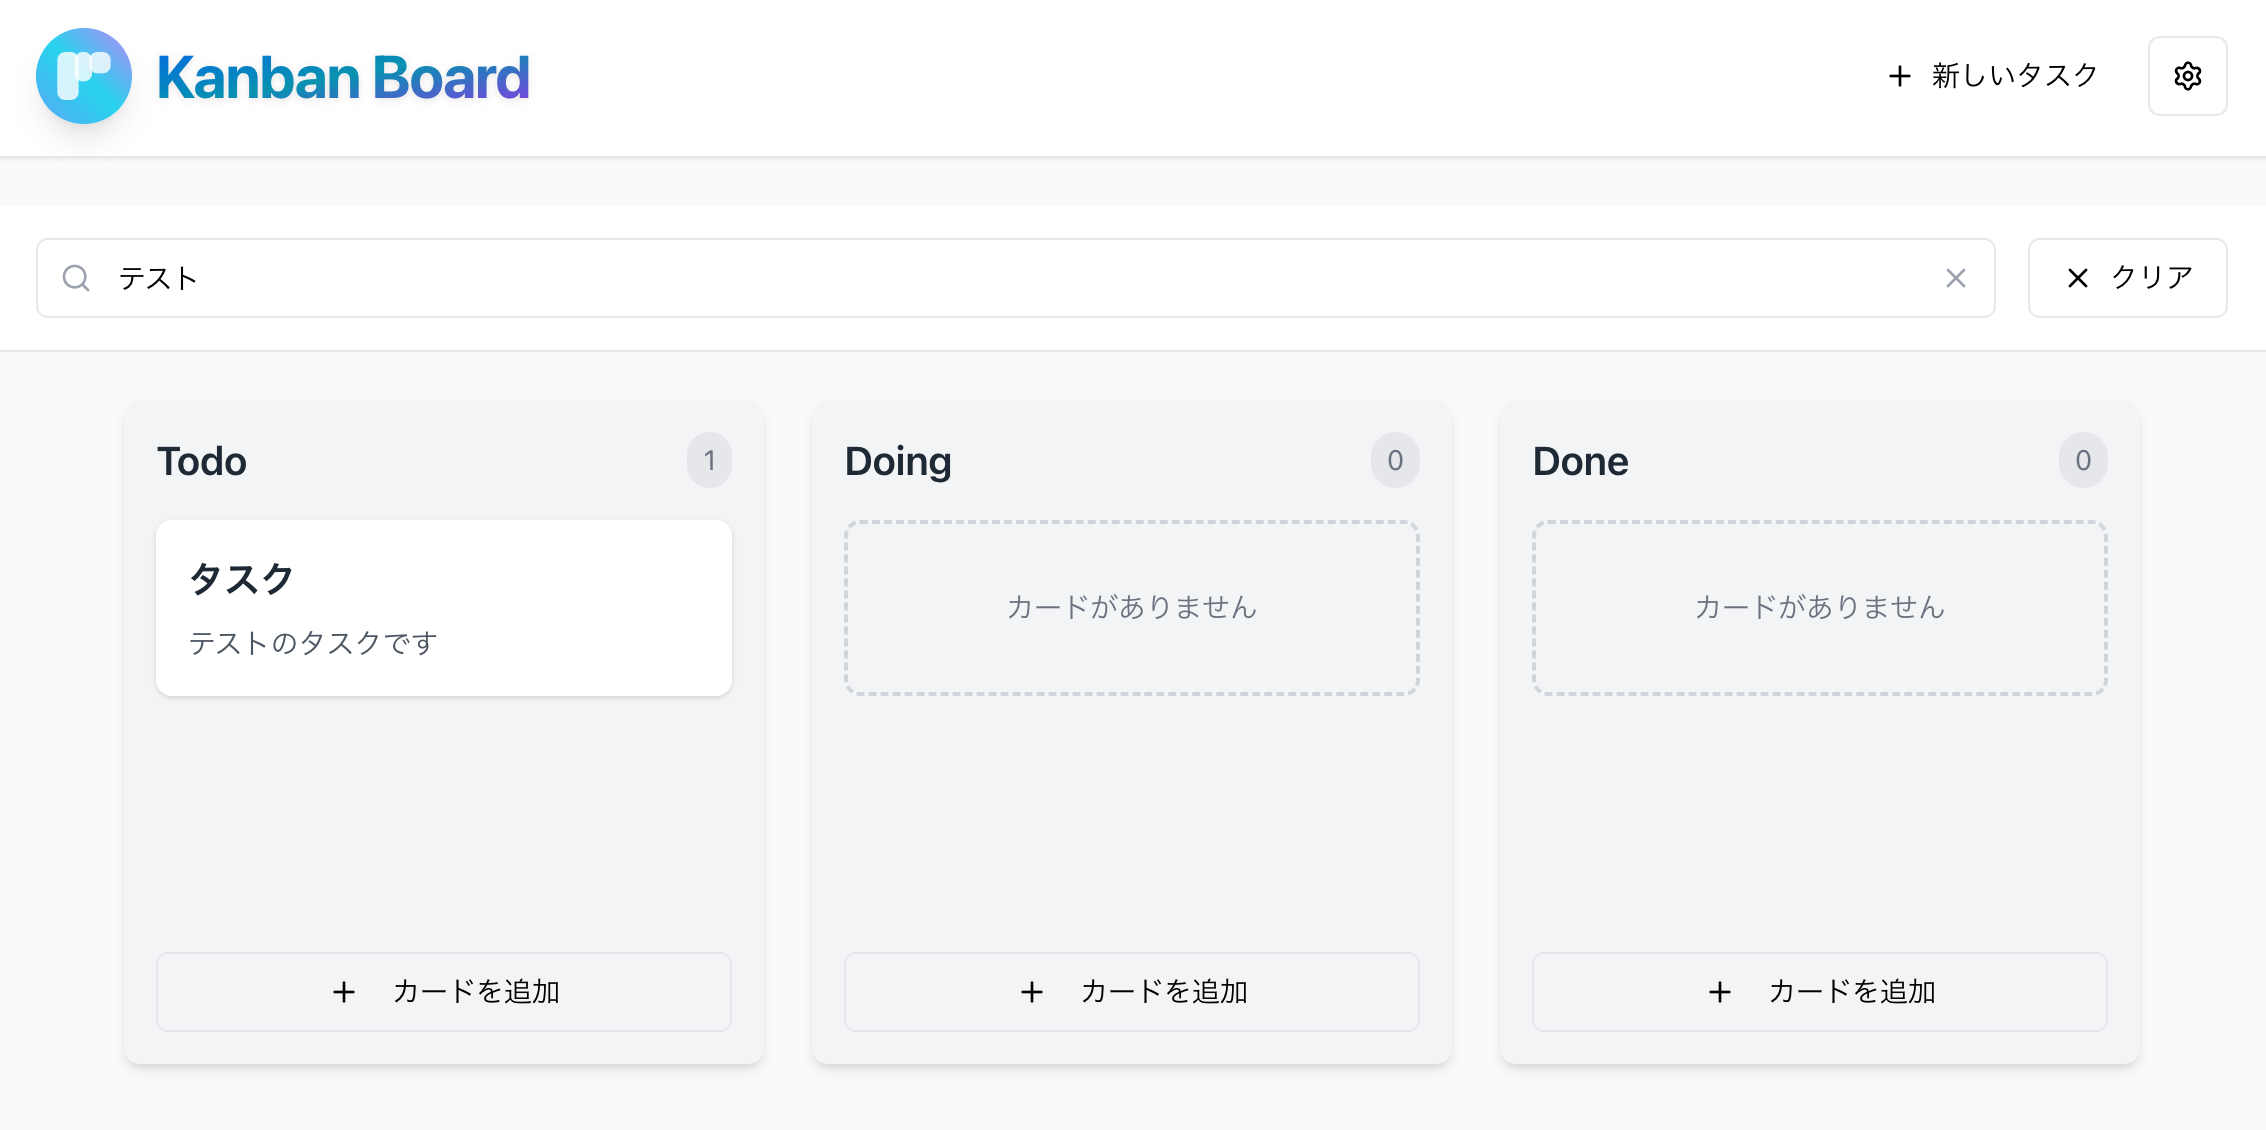
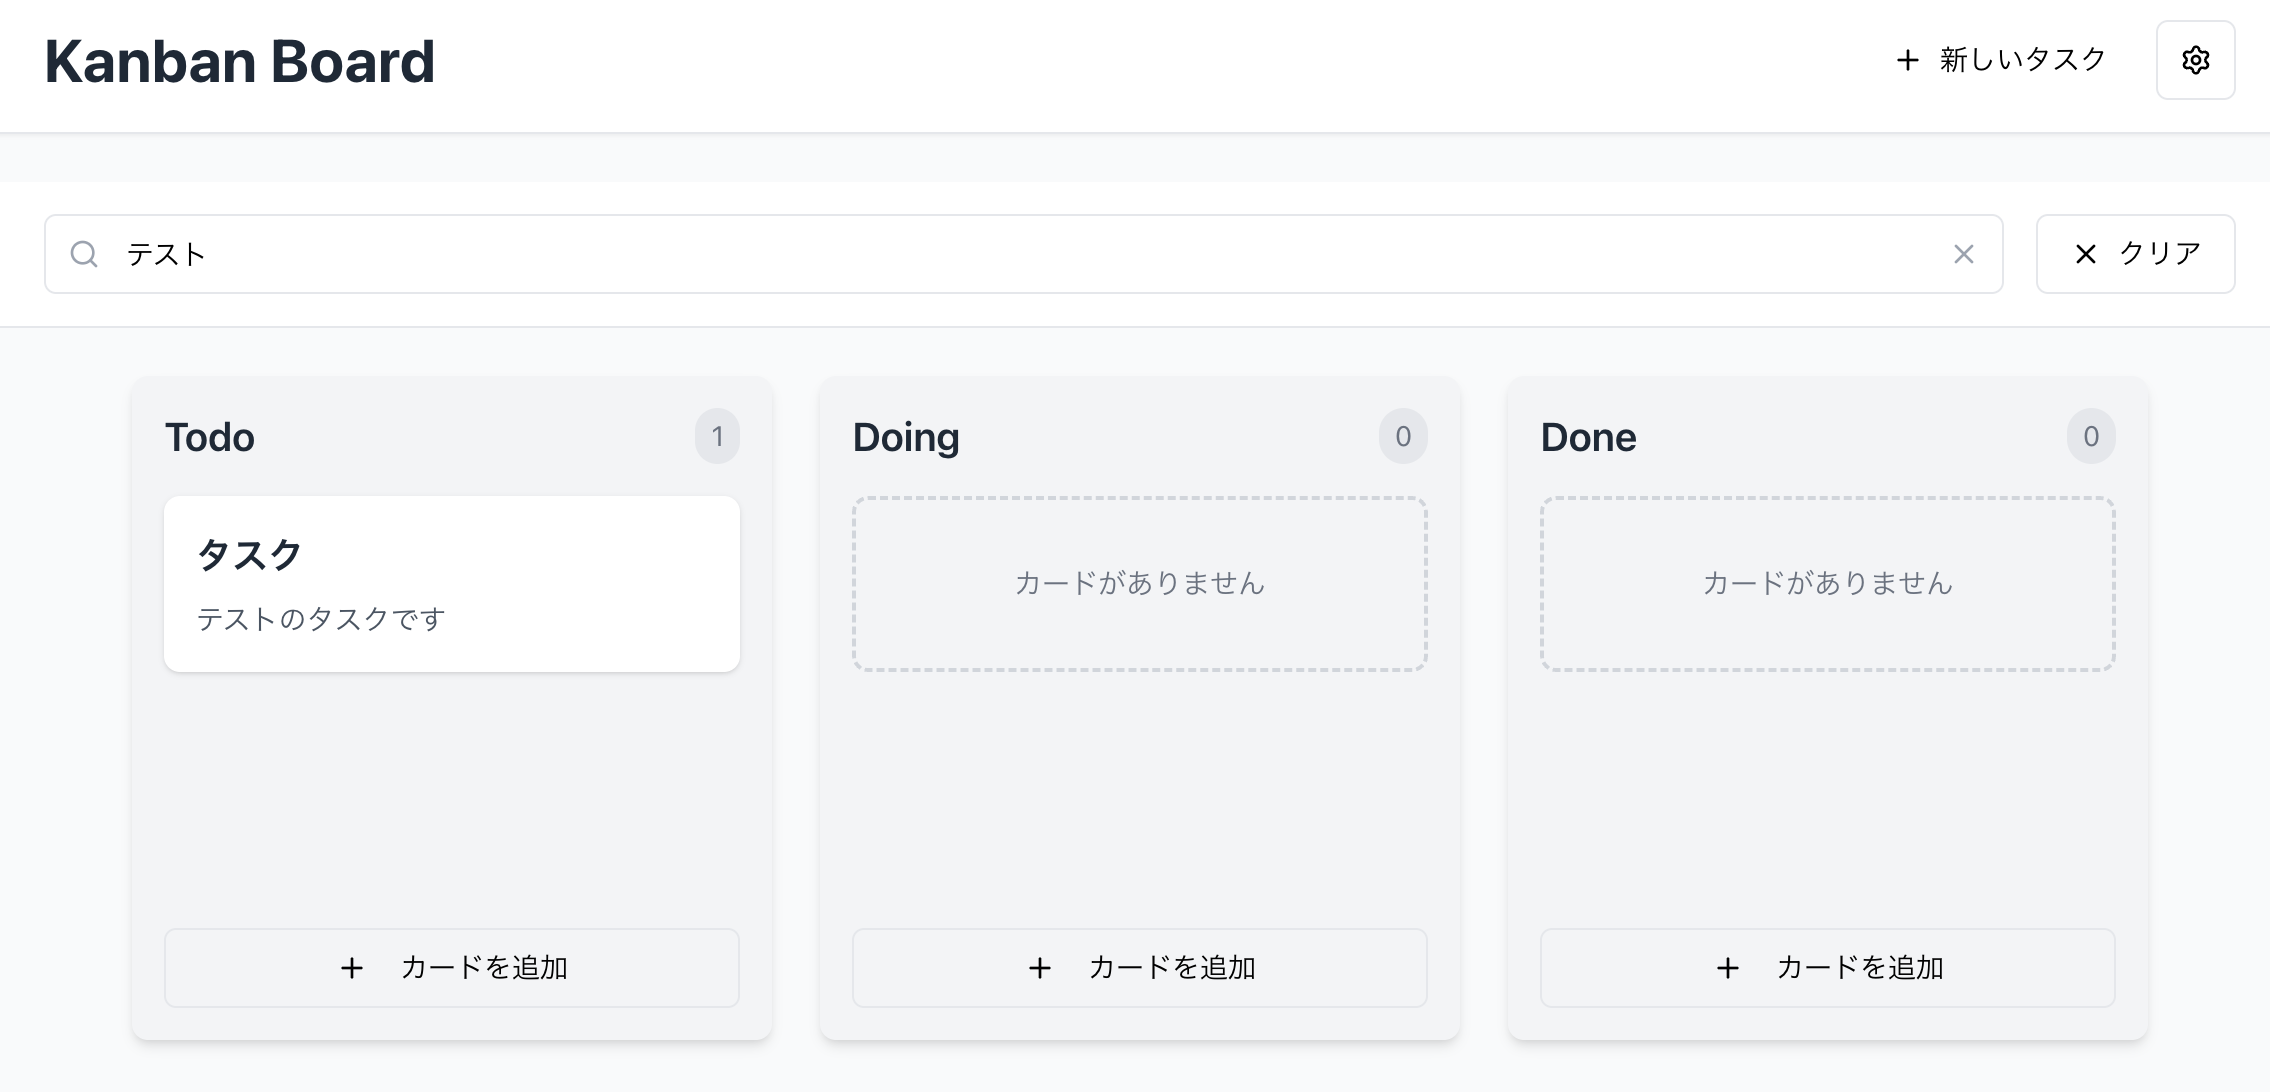
章3に画像を追加し、Tab補完によるコード生成の説明を強化しました。また、画像ファイルを更新しました。

diff --git a/kanban-curriculum/chapter3_inline.md b/kanban-curriculum/chapter3_inline.md
@@ -41,6 +41,8 @@
 
 💡 **その他にも気になる箇所はどんどん微調整をしてください**
 
+<img src="./img/3-2.png" alt="3-2" width="400" />
+
 ## 3.3 Tab補完でコードを生成
 
 コメントや関数の一部を書くと、続きをTab補完で生成してくれます。
